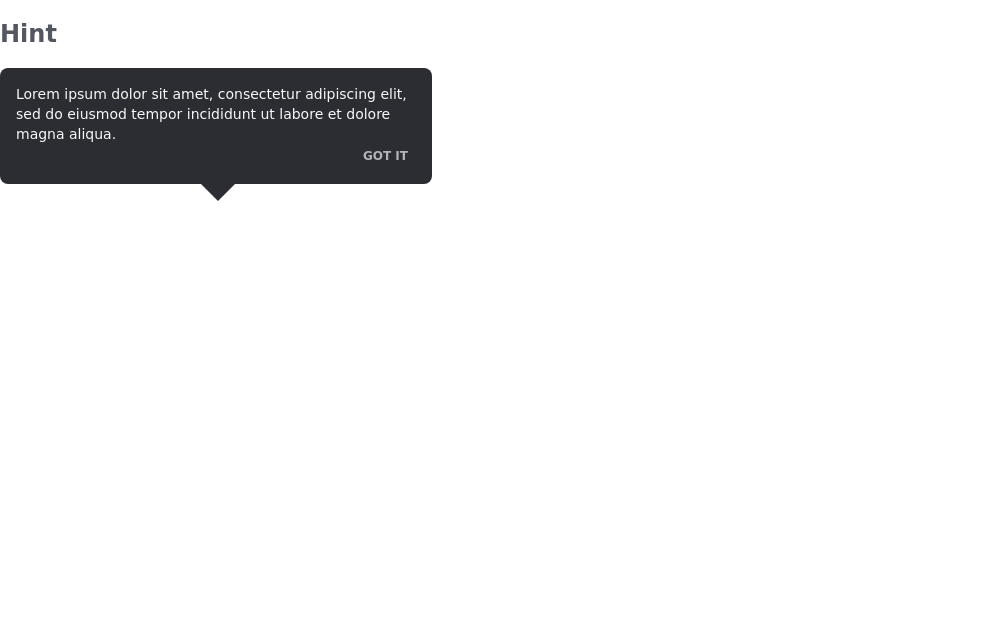
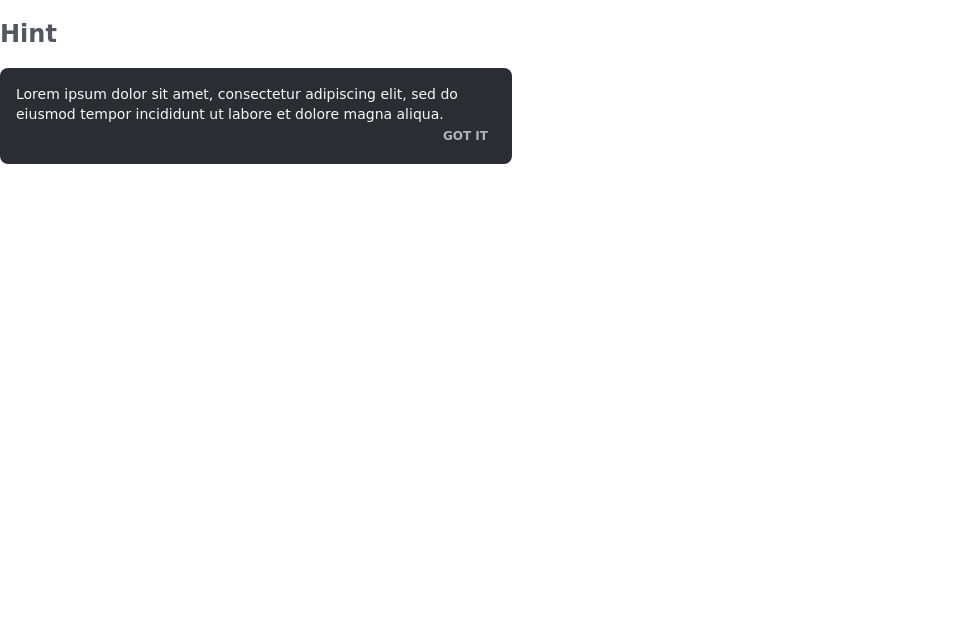
APP-4504 set max width for hint and tooltip (#216)

Changed region(s): [[0.0, 0.0919, 0.522, 0.3371], [0.0307, 0.0306, 0.0614, 0.0613]]

diff --git a/stories/tooltip.stories.js b/stories/tooltip.stories.js
@@ -1,16 +1,22 @@
 export default {
-    title: 'Components/Tooltip',
+  title: 'Components/Tooltip',
 };
 
 export const Tooltip = () => {
-    return (`
+  return `
     <div style="min-height: 600px">
       <h2>Tooltip</h2>
-        <div id="hint-vZUXsOqChv" role="tooltip" class="tk-tooltip" style="max-width: 400px; position: relative">
+        <div id="hint-vZUXsOqChv" role="tooltip" class="tk-tooltip">
             <span class="tk-tooltip__description">
                 Tooltip
             </span>
         </div>
+        <h3>Tooltip with multiline</h3>
+        <div id="hint-vZUXsOqChv" role="tooltip" class="tk-tooltip">
+            <span class="tk-tooltip__description">
+            Lorem Ipsum is simply dummy text of the printing and typesetting industry. Lorem Ipsum has been the industry's standard dummy text ever since the 1500s, when an unknown printer took a galley of type and scrambled it to make a type specimen book.
+            </span>
+        </div>
       </div>
-    `);
+    `;
 };

diff --git a/stories/hint.stories.js b/stories/hint.stories.js
@@ -3,10 +3,10 @@ export default {
 };
 
 export const Hint = () => {
-  return (`
+  return `
   <div style="min-height: 600px">
     <h2>Hint</h2>
-      <div id="hint-vZUXsOqChv" role="hint" class="tk-hint" style="max-width: 400px; position: relative">
+      <div id="hint-vZUXsOqChv" role="hint" class="tk-hint">
           <span class="tk-hint__description">Lorem ipsum dolor sit amet, consectetur adipiscing elit, sed do eiusmod tempor incididunt ut labore et dolore magna aliqua.</span>
           <div style="position: absolute; left: calc(50% - 10px); bottom: -32px;">
               <div class="tk-hint__arrow" style="transform: rotate(45deg);"></div>       
@@ -16,5 +16,5 @@ export const Hint = () => {
           </div>
       </div>
     </div>
-  `);
+  `;
 };

diff --git a/src/components/atoms/_hint.scss b/src/components/atoms/_hint.scss
@@ -13,7 +13,8 @@ $backgroundColor: $scolor-graphite-plus-48;
   line-height: toRem(20);
   white-space: pre-line;
   min-width: toRem(200);
-  max-width: toRem(500);
+  max-width: toRem(480);
+  overflow-wrap: break-word;
   &__description {
     color: $scolor-graphite-minus-96;
   }
@@ -36,8 +37,8 @@ $backgroundColor: $scolor-graphite-plus-48;
     text-transform: uppercase;
     padding: toRem(4) toRem(8);
     border-radius: toRem(23);
-    font-size: toRem(12); 
-    line-height: toRem(16); 
+    font-size: toRem(12);
+    line-height: toRem(16);
     font-weight: 600;
     &:focus-visible {
       @include outlineStyle;

diff --git a/src/components/atoms/_tooltip.scss b/src/components/atoms/_tooltip.scss
@@ -14,8 +14,10 @@
   padding-top: toRem(2);
   text-align: center;
   width: fit-content;
+  max-width: toRem(240);
   z-index: $z-index-tooltip;
-  
+  overflow-wrap: break-word;
+
   &__wrapper {
     display: inline-block;
     max-width: 100%;
